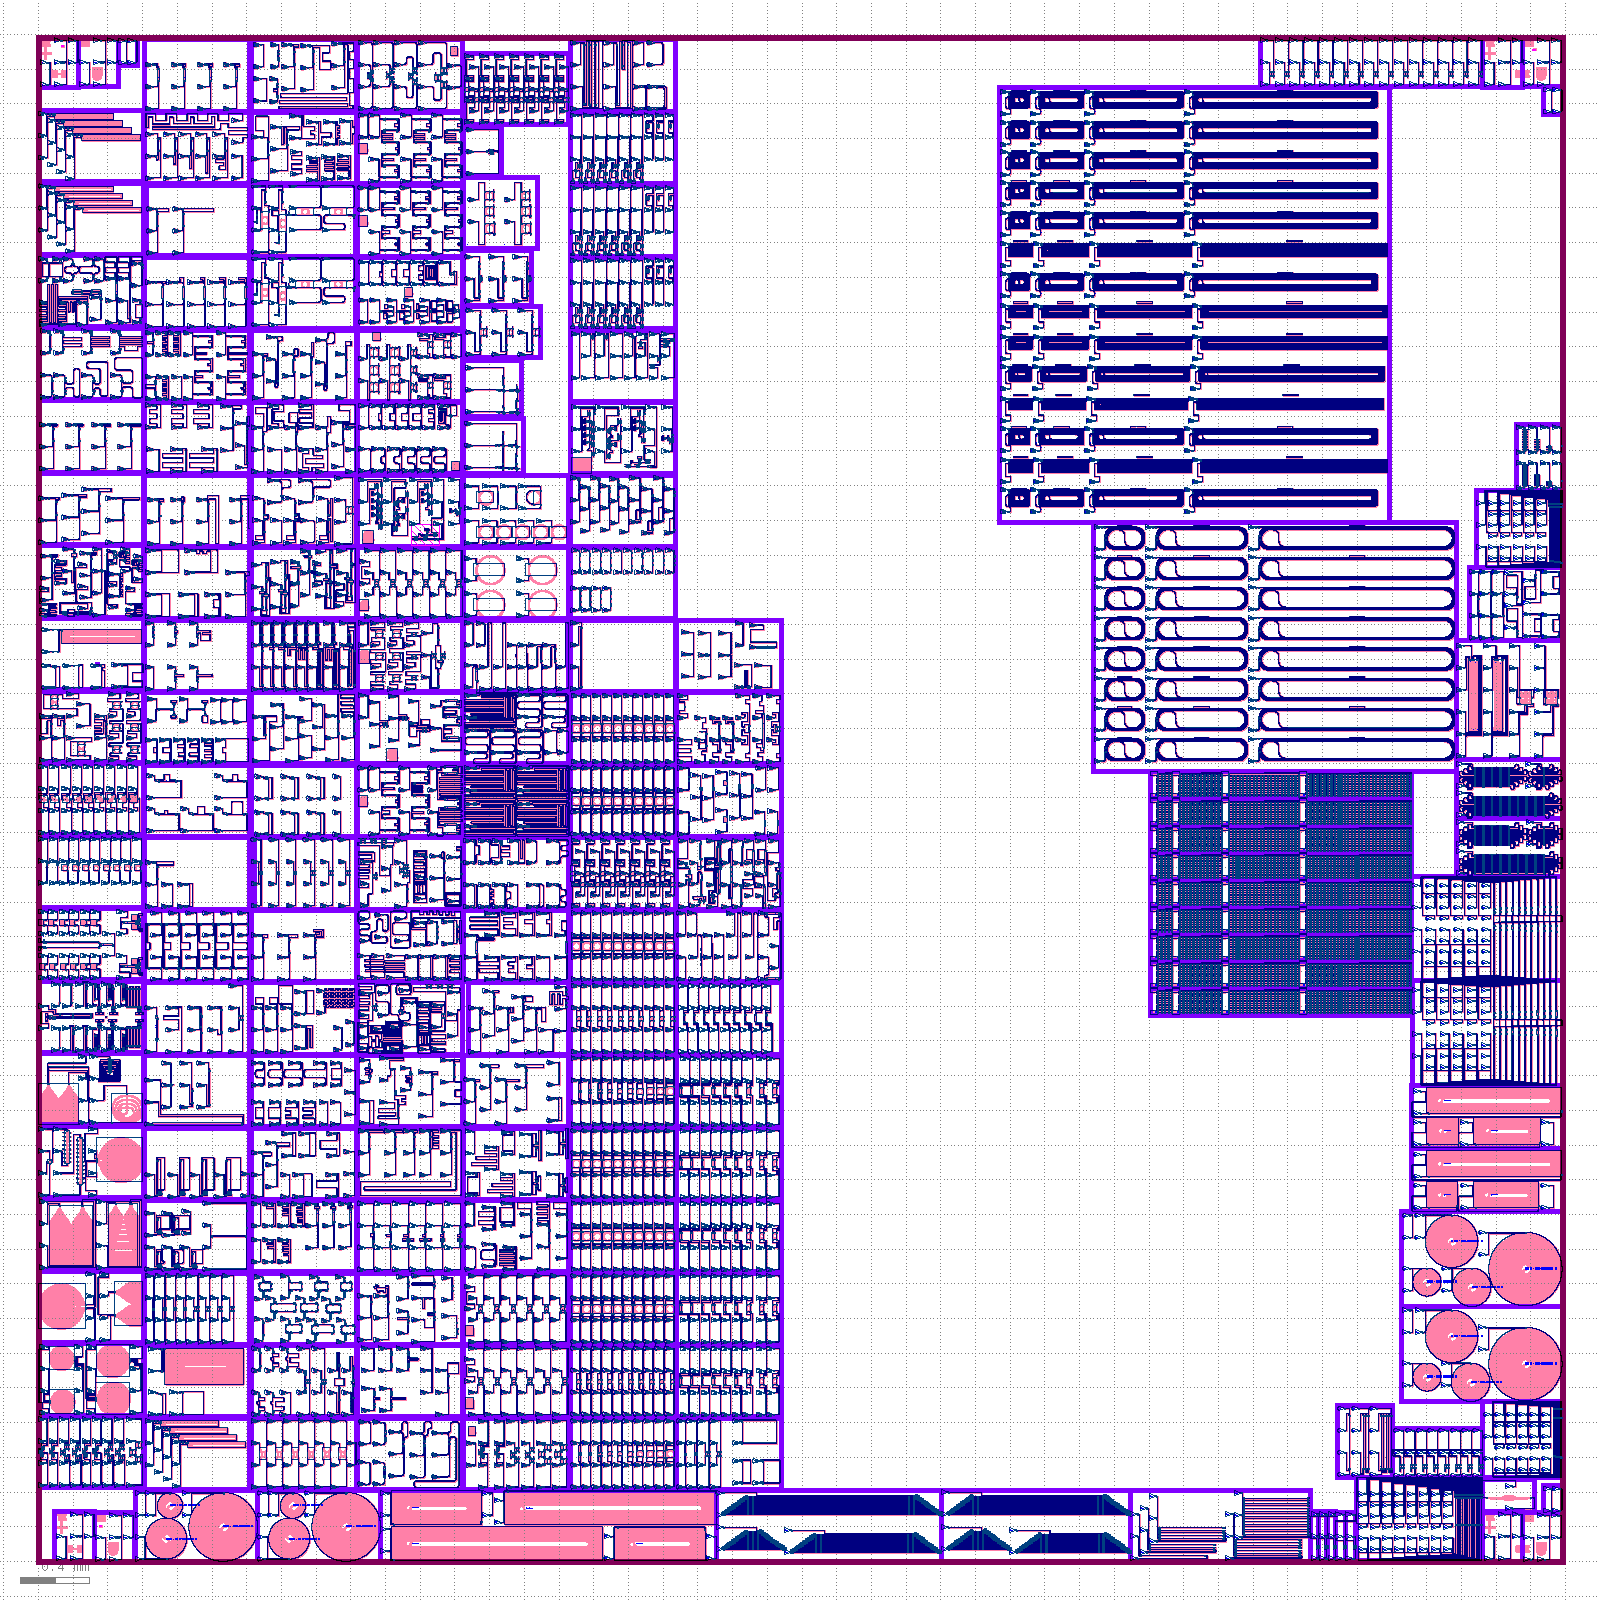
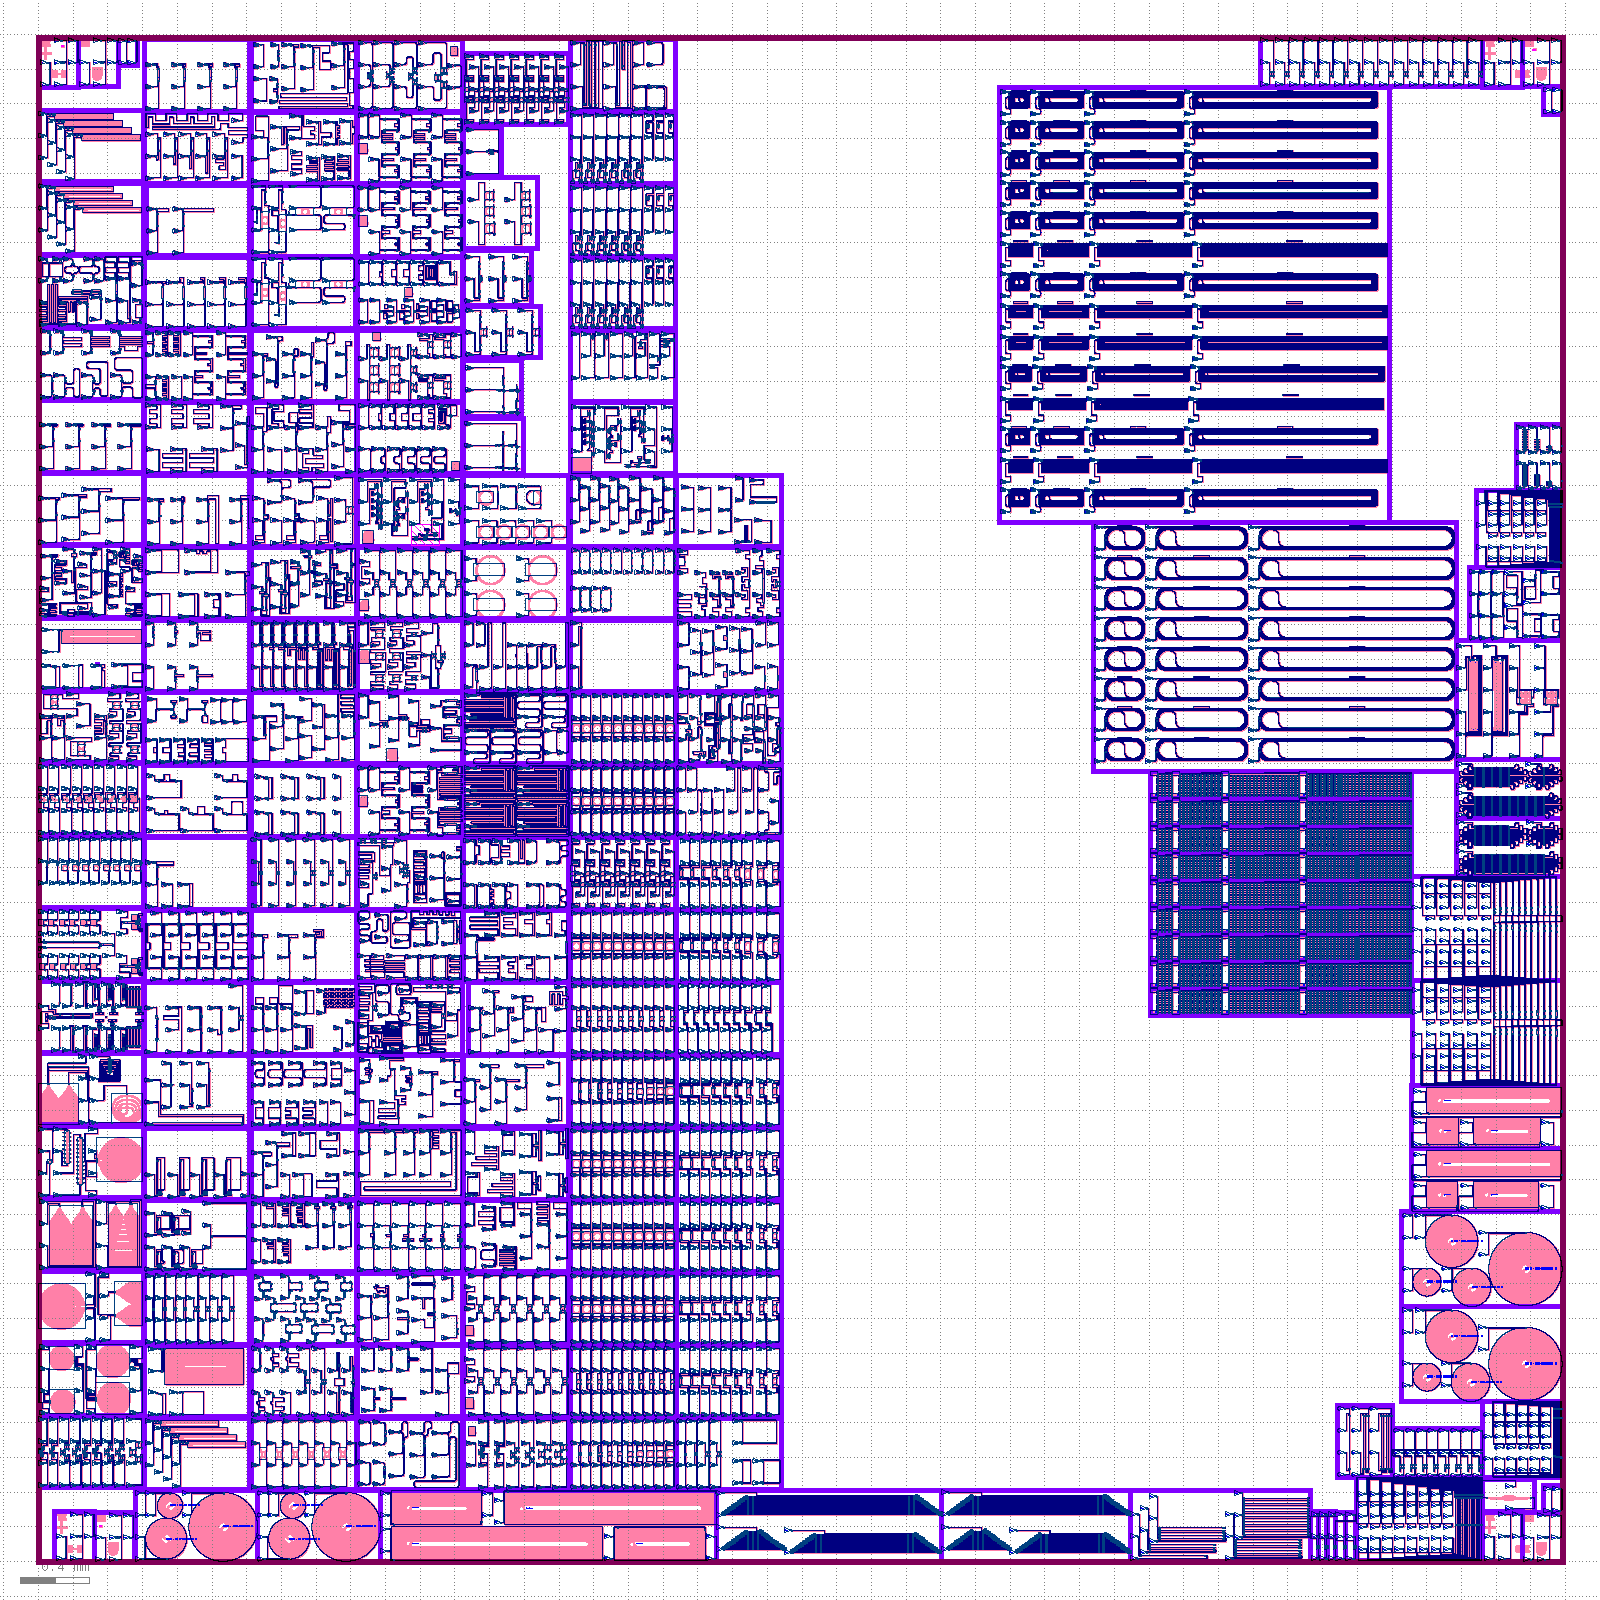
Aggregation layout: https://github.com/SiEPIC/openEBL-2026-05/actions/runs/25982909776/artifacts/7039799852

Changed region(s): [[0.4062, 0.2812, 0.5, 0.625]]

diff --git a/README.md b/README.md
@@ -91,5 +91,5 @@ Will be added here.
 
 Click on the following link to download the EBeam.oas merged layout file:
 <!-- start-link -->
-https://github.com/SiEPIC/openEBL-2026-05/actions/runs/25980272007/artifacts/7038972849
+https://github.com/SiEPIC/openEBL-2026-05/actions/runs/25982909776/artifacts/7039799852
 <!-- end-link -->